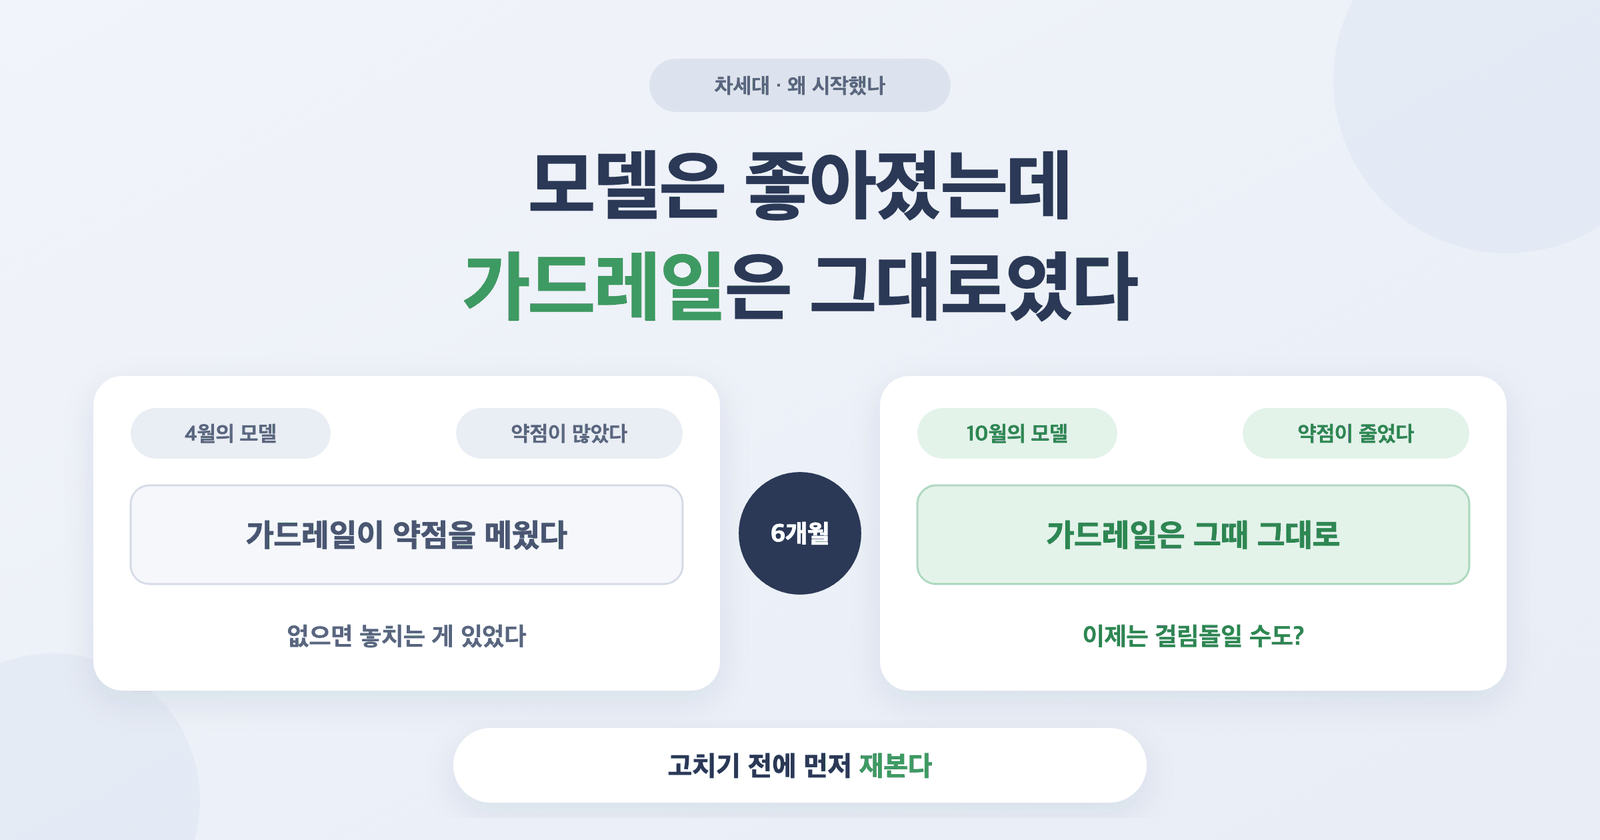
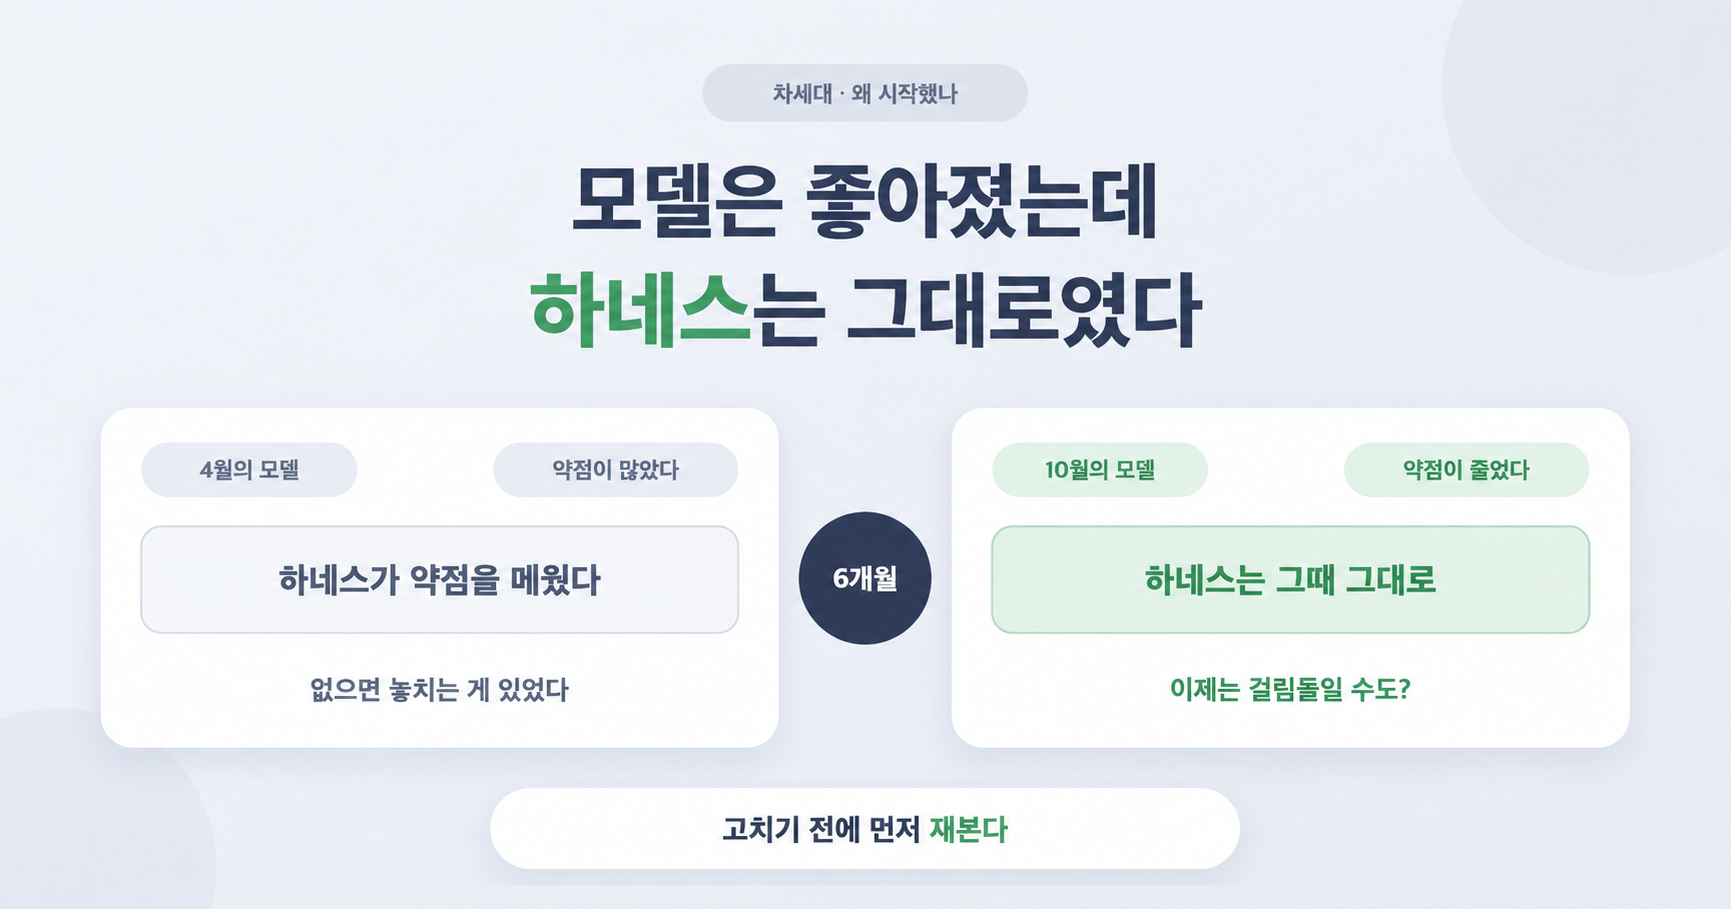
Unify harness terminology across blog posts and illustrations

diff --git a/docs/series/agent-sdd/013-removing-one-guardrail.md b/docs/series/agent-sdd/013-removing-one-guardrail.md
@@ -1,25 +1,26 @@
 ---
-title: "가드레일 하나만 빼고 돌려봤다"
+title: "하네스의 보조 절차 하나만 빼고 돌려봤다"
 parent: Agent SDD 개발 일지
 nav_order: 13
 permalink: /series/agent-sdd/013-removing-one-guardrail/
 date: 2026-10-02 14:01:00 +0900
-description: "하네스의 가드레일이 과하다는 느낌을 확인하려고, 보조 절차 하나만 넣고 빼는 비교를 네 번 돌렸다. 세 번이 통과했지만 판정은 보류한 이유와, 결과를 보기 전에 판정 규칙부터 적어둔 이유."
+description: "하네스의 보조 절차가 과하다는 느낌을 확인하려고, 보조 절차 하나만 넣고 빼는 비교를 네 번 돌렸다. 세 번이 통과했지만 판정은 보류한 이유와, 결과를 보기 전에 판정 규칙부터 적어둔 이유."
 summary: "보조 절차 하나만 넣고 빼는 비교를 네 번 돌리고, 세 번 통과에도 판정을 보류한 기록."
 image: /assets/images/agent-sdd/013-removing-one-guardrail/thumbnail.png
+last_modified_at: 2026-10-19
 ---
 
-# 가드레일 하나만 빼고 돌려봤다
+# 하네스의 보조 절차 하나만 빼고 돌려봤다
 
 _2026.10.02 게시_
 
-![가드레일 하나만 빼고 돌려봤다 — 조건 A와 B 모두 17/17 통과, 결론은 아직 모른다]({{ '/assets/images/agent-sdd/013-removing-one-guardrail/thumbnail.png' | relative_url }})
+![하네스의 보조 절차 하나만 빼고 돌려봤다 — 조건 A와 B 모두 17/17 통과, 결론은 아직 모른다]({{ '/assets/images/agent-sdd/013-removing-one-guardrail/thumbnail.png' | relative_url }})
 
-[지난 글]({{ '/series/agent-sdd/012-outgrown-guardrails/' | relative_url }})에서 순서를 하나 정했다. 가드레일을 고치기 전에 먼저 재본다. 지금 쓰는 모델이 그 절차 없이도 누락을 안 하는지 보고, 그다음에 줄일지 말지를 정한다.
+[지난 글]({{ '/series/agent-sdd/012-outgrown-guardrails/' | relative_url }})에서 순서를 하나 정했다. 하네스를 고치기 전에 먼저 재본다. 지금 쓰는 모델이 그 절차 없이도 누락을 안 하는지 보고, 그다음에 줄일지 말지를 정한다.
 
 말은 쉬운데 막상 재려고 하니 정할 게 많았다.
 
-그리고 한 가지를 먼저 인정해야 했다. 나는 이미 "가드레일이 과하다"는 쪽으로 기울어 있었다. 그 상태로 실험을 하면 보고 싶은 결과를 보게 된다. 이번 글에 나오는 번거로운 규칙들은 대부분 그걸 막으려고 넣은 것이다.
+그리고 한 가지를 먼저 인정해야 했다. 나는 이미 "하네스의 보조 절차가 과하다"는 쪽으로 기울어 있었다. 그 상태로 실험을 하면 보고 싶은 결과를 보게 된다. 이번 글에 나오는 번거로운 규칙들은 대부분 그걸 막으려고 넣은 것이다.
 
 ---
 
@@ -142,11 +143,11 @@ B에게 "계획하지 마라"고 하지는 않았다. 스스로 목록을 쓰는
 
 완료 조건과 검사를 모델에게 그대로 줬으니, 그 자체가 체크리스트 역할을 했을 수도 있다. 목록을 따로 쓰지 않아도 빠뜨릴 게 없었던 것이다.
 
-![쉬운 과제에서는 가드레일이 있든 없든 통과해서 구분이 안 되고, 차이는 모델이 아슬아슬한 과제에서 난다]({{ '/assets/images/agent-sdd/013-removing-one-guardrail/easy-task.svg' | relative_url }})
+![쉬운 과제에서는 하네스의 보조 절차가 있든 없든 통과해서 구분이 안 되고, 차이는 모델이 아슬아슬한 과제에서 난다]({{ '/assets/images/agent-sdd/013-removing-one-guardrail/easy-task.svg' | relative_url }})
 
 지난 글에서 언급한 Anthropic의 하네스 글에도 같은 이야기가 있다. 모델이 좋아지면 "혼자 안정적으로 해내는 범위"가 넓어지고, 보조 장치는 그 범위 바깥에 있는 작업에서만 값을 한다는 것이다. 범위 안쪽 작업으로 재면 뭘 붙이든 떼든 결과가 같다.
 
-그래서 판정은 보류했고, 이 가드레일은 그대로 둔다.
+그래서 판정은 보류했고, 이 보조 절차는 그대로 둔다.
 
 ---
 
@@ -170,7 +171,7 @@ B에게 "계획하지 마라"고 하지는 않았다. 스스로 목록을 쓰는
 
 관련 글과 참고 자료:
 
-- [모델은 좋아졌는데 가드레일은 그대로였다]({{ '/series/agent-sdd/012-outgrown-guardrails/' | relative_url }})
+- [모델은 좋아졌는데 하네스는 그대로였다]({{ '/series/agent-sdd/012-outgrown-guardrails/' | relative_url }})
 - [문서는 토큰 청구서를 크게 줄이지 않는다 — 대신 Agent가 헤매는 시간을 줄인다]({{ '/series/agent-sdd/005-docs-cut-agent-wandering-not-tokens/' | relative_url }})
 - [Skill 검증을 위한 Eval, 직접 돌려보았다]({{ '/series/agent-sdd/008-skill-eval-validation/' | relative_url }})
 - [감으로는 고칠 수 없다 — AI 에이전트에 Eval이 필요한 이유]({{ '/standalone/2026-10-02-why-ai-agents-need-evals/' | relative_url }})

diff --git a/docs/series/agent-sdd/014-isolation-stopped-the-experiment.md b/docs/series/agent-sdd/014-isolation-stopped-the-experiment.md
@@ -4,9 +4,10 @@ parent: Agent SDD 개발 일지
 nav_order: 14
 permalink: /series/agent-sdd/014-isolation-stopped-the-experiment/
 date: 2026-10-02 14:02:00 +0900
-description: "하네스의 가드레일 하나를 넣고 빼는 비교 실험이 두 번 멈췄다. 두 번 다 모델이 못해서가 아니라 실험 환경의 격리 때문이었다. 사전 검사는 통과했는데 왜 실제로는 막혔는지, 멈춘 뒤에 무엇을 지켰는지 정리한 기록."
-summary: "가드레일 비교 실험을 두 번 멈춘 것이 모델이 아니라 격리였던 이유와, 멈춘 뒤에 지킨 것."
+description: "하네스의 보조 절차 하나를 넣고 빼는 비교 실험이 두 번 멈췄다. 두 번 다 모델이 못해서가 아니라 실험 환경의 격리 때문이었다. 사전 검사는 통과했는데 왜 실제로는 막혔는지, 멈춘 뒤에 무엇을 지켰는지 정리한 기록."
+summary: "하네스의 보조 절차 비교 실험을 두 번 멈춘 것이 모델이 아니라 격리였던 이유와, 멈춘 뒤에 지킨 것."
 image: /assets/images/agent-sdd/014-isolation-stopped-the-experiment/thumbnail.png
+last_modified_at: 2026-10-19
 ---
 
 # 실험을 멈춘 건 모델이 아니었다
@@ -130,7 +131,7 @@ _2026.10.02 게시_
 
 기록에 남은 모델 작업 시간은 두 실험을 합쳐서 7분이 안 된다. 실험 환경을 만들고 고치는 데 쓴 시간은 따로 재지 않았는데, 그보다 훨씬 길었다.
 
-가드레일이 과한지 보려고 시작한 일이다. 그런데 정작 실험에 걸어둔 안전장치가 실험을 두 번 세웠다. 좀 웃긴 상황이긴 하다. ㅋㅋ
+하네스의 보조 절차가 과한지 보려고 시작한 일이다. 그런데 정작 실험에 걸어둔 안전장치가 실험을 두 번 세웠다. 좀 웃긴 상황이긴 하다. ㅋㅋ
 
 그래도 그 안전장치를 풀고 돌렸으면 결과를 믿을 수 없었을 것이다. 두 번째 실험에서 그냥 진행했다면 "앞 후보 파일을 읽을 수 있는 상태"로 얻은 결과를 비교라고 내놓게 된다.
 
@@ -146,7 +147,7 @@ _2026.10.02 게시_
 | 실패한 검사도 지우지 않는다 | 나중에 같은 데서 또 넘어진다 |
 | 검사는 "한 번 쓰고 넘어가는 순간"까지 한다 | 두 번 다 거기서 걸렸다 |
 
-모델이 가드레일 없이도 누락을 안 하는지는 아직 모른다. 지금까지 알게 된 건 그걸 재는 일이 생각보다 품이 든다는 것 정도다.
+모델이 하네스의 보조 절차 하나 없이도 누락을 안 하는지는 아직 모른다. 지금까지 알게 된 건 그걸 재는 일이 생각보다 품이 든다는 것 정도다.
 
 다음에는 방법론을 프로젝트 밖에 두고 연결하는 부분을 실제로 만든 이야기를 하려고 한다.
 
@@ -154,7 +155,7 @@ _2026.10.02 게시_
 
 관련 글과 참고 자료:
 
-- [모델은 좋아졌는데 가드레일은 그대로였다]({{ '/series/agent-sdd/012-outgrown-guardrails/' | relative_url }})
-- [가드레일 하나만 빼고 돌려봤다]({{ '/series/agent-sdd/013-removing-one-guardrail/' | relative_url }})
+- [모델은 좋아졌는데 하네스는 그대로였다]({{ '/series/agent-sdd/012-outgrown-guardrails/' | relative_url }})
+- [하네스의 보조 절차 하나만 빼고 돌려봤다]({{ '/series/agent-sdd/013-removing-one-guardrail/' | relative_url }})
 - [멀티 Agent 개발을 실제로 운영해보고 정리한 것들]({{ '/series/agent-sdd/009-adaptive-agentic-sdd/' | relative_url }})
 - Microsoft, [Order of ACEs in a DACL](https://learn.microsoft.com/en-us/windows/win32/secauthz/order-of-aces-in-a-dacl)

diff --git a/docs/series/agent-sdd/017-counting-what-machines-can-check.md b/docs/series/agent-sdd/017-counting-what-machines-can-check.md
@@ -4,7 +4,7 @@ parent: Agent SDD 개발 일지
 nav_order: 17
 permalink: /series/agent-sdd/017-counting-what-machines-can-check/
 date: 2026-10-13 14:01:00 +0900
-last_modified_at: 2026-10-18
+last_modified_at: 2026-10-19
 description: "하네스의 산문 규칙이 너무 많아져서, 기계가 판단할 수 있는 건 기계에 넘기기로 했다. 넘기기 전에 규칙 370줄과 실제 사고 기록을 세어 봤더니, 온전히 넘길 수 있는 건 16줄이었고 제일 많이 터진 문제는 애초에 넘길 수 없는 거였다."
 summary: "규칙 370줄 중 온전히 판정 가능한 건 16줄이었고, 사고 기록에서 가장 많은 유형은 애초에 기계로 넘길 수 없는 것이었다."
 image: /assets/images/agent-sdd/017-counting-what-machines-can-check/thumbnail.png
@@ -27,13 +27,13 @@ _2026.10.13 게시_
 
 ## 산문이 너무 많아진 것 같았다
 
-[12편]({{ '/series/agent-sdd/012-outgrown-guardrails/' | relative_url }})에서 모델은 좋아졌는데 가드레일은 그대로라는 얘기를 했다. 가드레일이 걸림돌이 된 건 아닌지 재보자고 했고, 13~16편은 그걸 재려고 실험장을 만들고 고친 기록이다.
+[12편]({{ '/series/agent-sdd/012-outgrown-guardrails/' | relative_url }})에서 모델은 좋아졌는데 하네스는 그대로라는 얘기를 했다. 하네스가 걸림돌이 된 건 아닌지 재보자고 했고, 13~16편은 그걸 재려고 실험장을 만들고 고친 기록이다.
 
 그런데 실험을 준비하면서 계속 걸리는 게 있었다.
 
 방법론 문서가 점점 길어지고 있었다. 사고가 하나 나면 규칙이 하나 늘었고, 규칙이 늘면 예외가 붙었다. Agent가 이걸 다 읽고 이해한 다음에 작업한다는 게 점점 무리처럼 느껴졌다. 지시를 놓치거나 문서마다 다르게 받아들이는 일도 보였다.
 
-생각해보면 실험도 같은 전제 위에 있었다. A에게는 목록을 쓰라고 하고 B에게는 안 쓰라고 하는 것도, 결국 Agent가 글로 된 지시를 읽고 그대로 한다는 걸 깔고 있다. 그런데 읽어야 할 글 자체가 너무 많아서 제대로 안 읽힌다면, 가드레일 하나를 넣고 빼서 차이를 보는 것도 의미가 흐려진다.
+생각해보면 실험도 같은 전제 위에 있었다. A에게는 목록을 쓰라고 하고 B에게는 안 쓰라고 하는 것도, 결국 Agent가 글로 된 지시를 읽고 그대로 한다는 걸 깔고 있다. 그런데 읽어야 할 글 자체가 너무 많아서 제대로 안 읽힌다면, 하네스의 보조 절차 하나를 넣고 빼서 차이를 보는 것도 의미가 흐려진다.
 
 그래서 방향을 다시 잡았다.
 
@@ -275,6 +275,6 @@ return {
 
 관련 글:
 
-- [모델은 좋아졌는데 가드레일은 그대로였다]({{ '/series/agent-sdd/012-outgrown-guardrails/' | relative_url }})
+- [모델은 좋아졌는데 하네스는 그대로였다]({{ '/series/agent-sdd/012-outgrown-guardrails/' | relative_url }})
 - [다시 실험하려고 실험장부터 만들었다]({{ '/series/agent-sdd/015-rebuilding-experiment-environment/' | relative_url }})
 - [열세 번 돌리고, 판정을 다시 봤다]({{ '/series/agent-sdd/016-rechecking-the-verdict/' | relative_url }})

diff --git a/docs/series/agent-sdd/README.md b/docs/series/agent-sdd/README.md
@@ -5,7 +5,7 @@ has_children: true
 has_toc: false
 permalink: /series/agent-sdd/
 description: "AI 코딩 에이전트를 회사 일과 개인 프로젝트에 붙이면서, 모델 바깥의 절차·검사·규칙인 하네스를 직접 만들고 다시 재 본 연재."
-last_modified_at: 2026-10-18
+last_modified_at: 2026-10-19
 ---
 
 {%- assign series_posts = site.pages | where: "parent", page.title | sort: "nav_order" -%}
@@ -52,7 +52,7 @@ last_modified_at: 2026-10-18
     <h2>방법론과 재검증</h2>
     <span>9~{{ last_post.nav_order }}편</span>
   </div>
-  <p class="series-group-intro">멀티 Agent 운영을 방법론으로 묶어 공유하고, 실무에 다시 적용하고, 모델이 좋아진 뒤 가드레일, 요즘 말로 하네스를 다시 재본 과정.</p>
+  <p class="series-group-intro">멀티 Agent 운영을 방법론으로 묶어 공유하고, 실무에 다시 적용하고, 모델이 좋아진 뒤 하네스를 다시 재본 과정.</p>
   <div class="series-index">
     {%- for post in group_posts %}
     {% include post-row.html post=post number=true %}
@@ -72,7 +72,7 @@ last_modified_at: 2026-10-18
       </thead>
       <tbody>
         <tr><td>하네스(harness)</td><td>모델 바깥에서 Agent를 붙잡는 절차·검사·규칙 전체. 이 연재에서 만든 방법론이 여기에 해당합니다.</td><td><a href="./012-outgrown-guardrails/">12편</a></td></tr>
-        <tr><td>가드레일</td><td>하네스 가운데 Agent가 자주 틀리던 자리에 하나씩 세운 절차. 명세, 현행 분석, 변경 계획, 백로그, 독립 리뷰 같은 것입니다.</td><td><a href="./012-outgrown-guardrails/">12편</a></td></tr>
+        <tr><td>하네스의 구성 요소</td><td>명세, 현행 분석, 변경 계획, 백로그, 독립 리뷰 같은 개별 절차. 통제와 보조 절차를 구분해 필요성을 판단합니다.</td><td><a href="./012-outgrown-guardrails/">12편</a></td></tr>
         <tr><td>통제 (헬멧)</td><td>권한, 수정 범위, 승인, 꼭 돌려야 하는 검증. 작업의 위험에 맞춰 거는 것이라 모델이 좋아져도 그대로 둡니다.</td><td><a href="./012-outgrown-guardrails/">12편</a></td></tr>
         <tr><td>보조 절차 (보조바퀴)</td><td>모델의 약점을 메우려고 넣은 절차. 지금도 필요한지 다시 재 보는 대상입니다.</td><td><a href="./013-removing-one-guardrail/">13편</a></td></tr>
         <tr><td>앱 저장소</td><td>실제로 만들고 있는 안드로이드 앱. 17편에서는 "실무 프로젝트"라고 불렀습니다.</td><td><a href="./018-connecting-methodology-from-outside/">18편</a></td></tr>

diff --git a/docs/index.md b/docs/index.md
@@ -3,6 +3,7 @@ title: "AI Agent Diary"
 layout: home
 nav_order: 1
 permalink: /
+last_modified_at: 2026-10-19
 ---
 
 {% assign dated_pages = site.pages | where_exp: "item", "item.date != nil" | where_exp: "item", "item.parent != 'AI에게 물어본 인간의 미래'" | sort: "date" | reverse %}
@@ -63,7 +64,7 @@ permalink: /
         </li>
         <li>
           <span class="series-group-head"><span class="series-group-range">9~{{ last_series_post.nav_order }}편</span><strong>방법론과 재검증</strong></span>
-          <span class="series-group-desc">멀티 Agent 운영을 방법론으로 묶어 공유하고, 실무에 다시 적용하고, 모델이 좋아진 뒤 가드레일, 요즘 말로 하네스를 다시 재본 과정.</span>
+          <span class="series-group-desc">멀티 Agent 운영을 방법론으로 묶어 공유하고, 실무에 다시 적용하고, 모델이 좋아진 뒤 하네스를 다시 재본 과정.</span>
           <a class="series-group-link" href="./series/agent-sdd/009-adaptive-agentic-sdd/">여기부터 →</a>
         </li>
       </ol>
